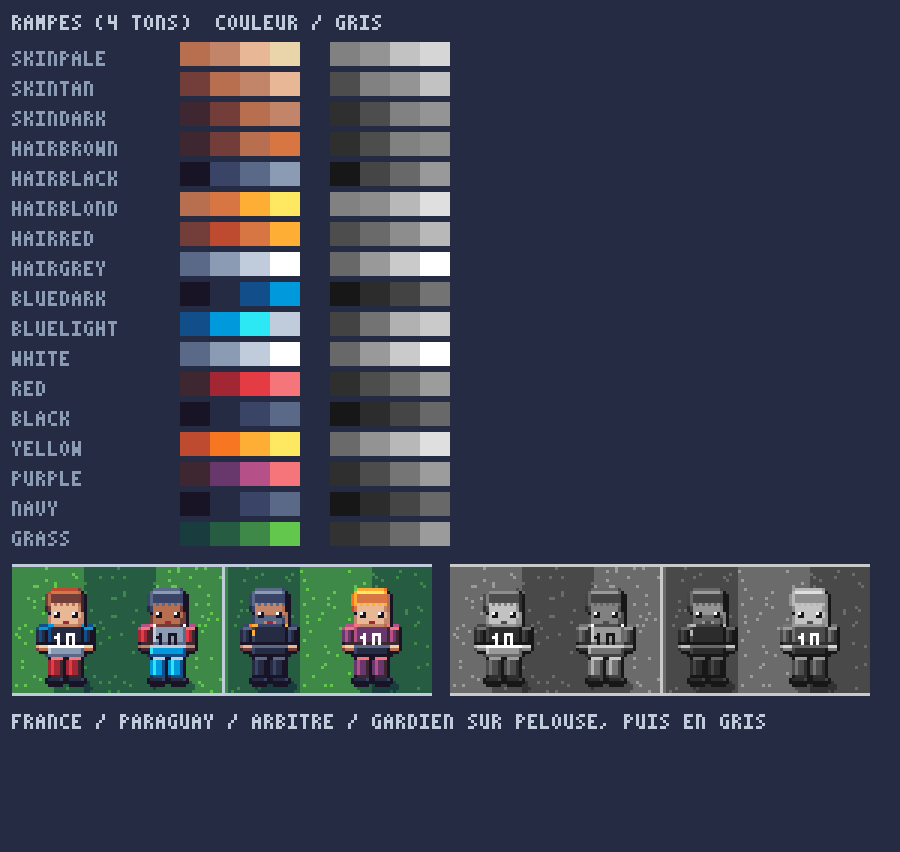
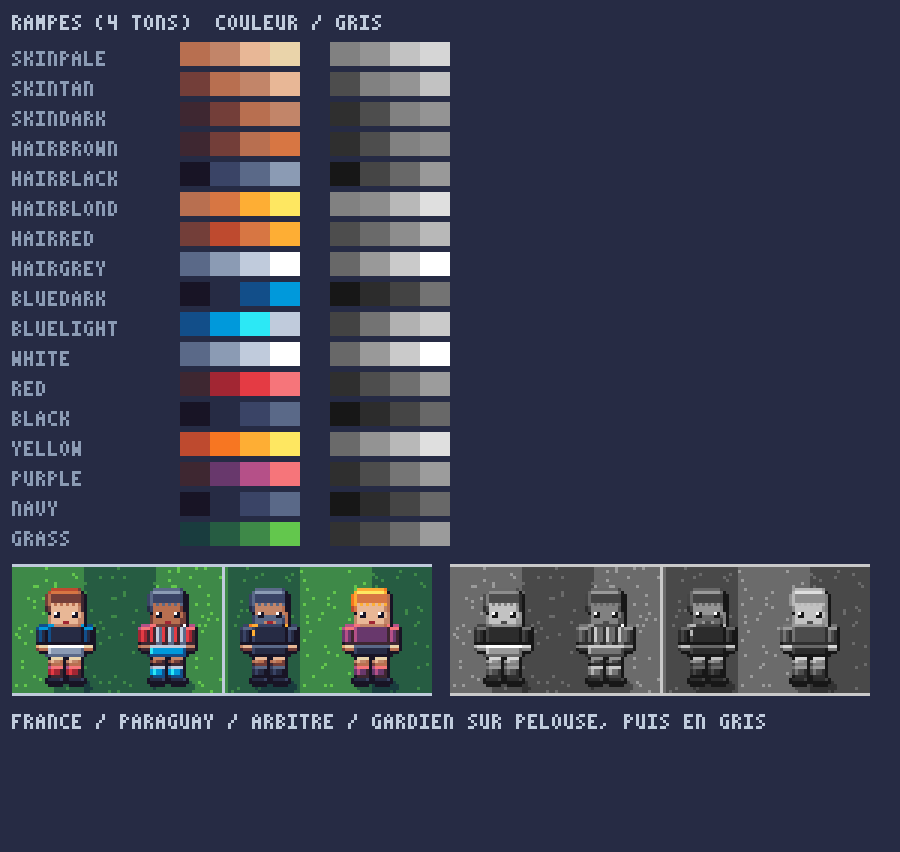
art(carton-plein): cuisses en peau, numéro dans le dos seulement, deux chiffres en 5×7
Claude-Session: https://claude.ai/code/session_01VtYrrjxp42EL9qqeRupMu1

diff --git a/carton-plein/art/METHODE.md b/carton-plein/art/METHODE.md
@@ -113,7 +113,7 @@ Toutes les parties sont des **rectangles aux coins coupés d'un pixel**, jamais 
 | Buste | 12 × 7 | rangées 13 à 19 | Épaules carrées. Rangée du haut = face du dessus des épaules (ton 4). |
 | Bras | 3 × 6 chacun | rangées 13 à 18, collés au buste | Mains : 3 × 2 en peau, ton 2. |
 | Short | 12 × 4 | rangées 9 à 12 | Même largeur que le buste. Pas de taille marquée. |
-| Jambes | 4 × 5 chacune | rangées 3 à 7, espacées de 2 px | Chaussettes = la jambe entière. |
+| Jambes | 4 × 7 chacune | rangées 3 à 9, espacées de 2 px | Cuisse en peau sur 3 rangées sous le short, chaussette sur 4. |
 | Crampons | 5 × 2 chacun | rangées 0 à 2 | Dépassent d'un pixel devant la jambe. Ton 2 dessus, ton 1 dessous. |
 
 Proportions : tête 45 % de la hauteur, buste + short 35 %, jambes 20 %. La largeur de la
